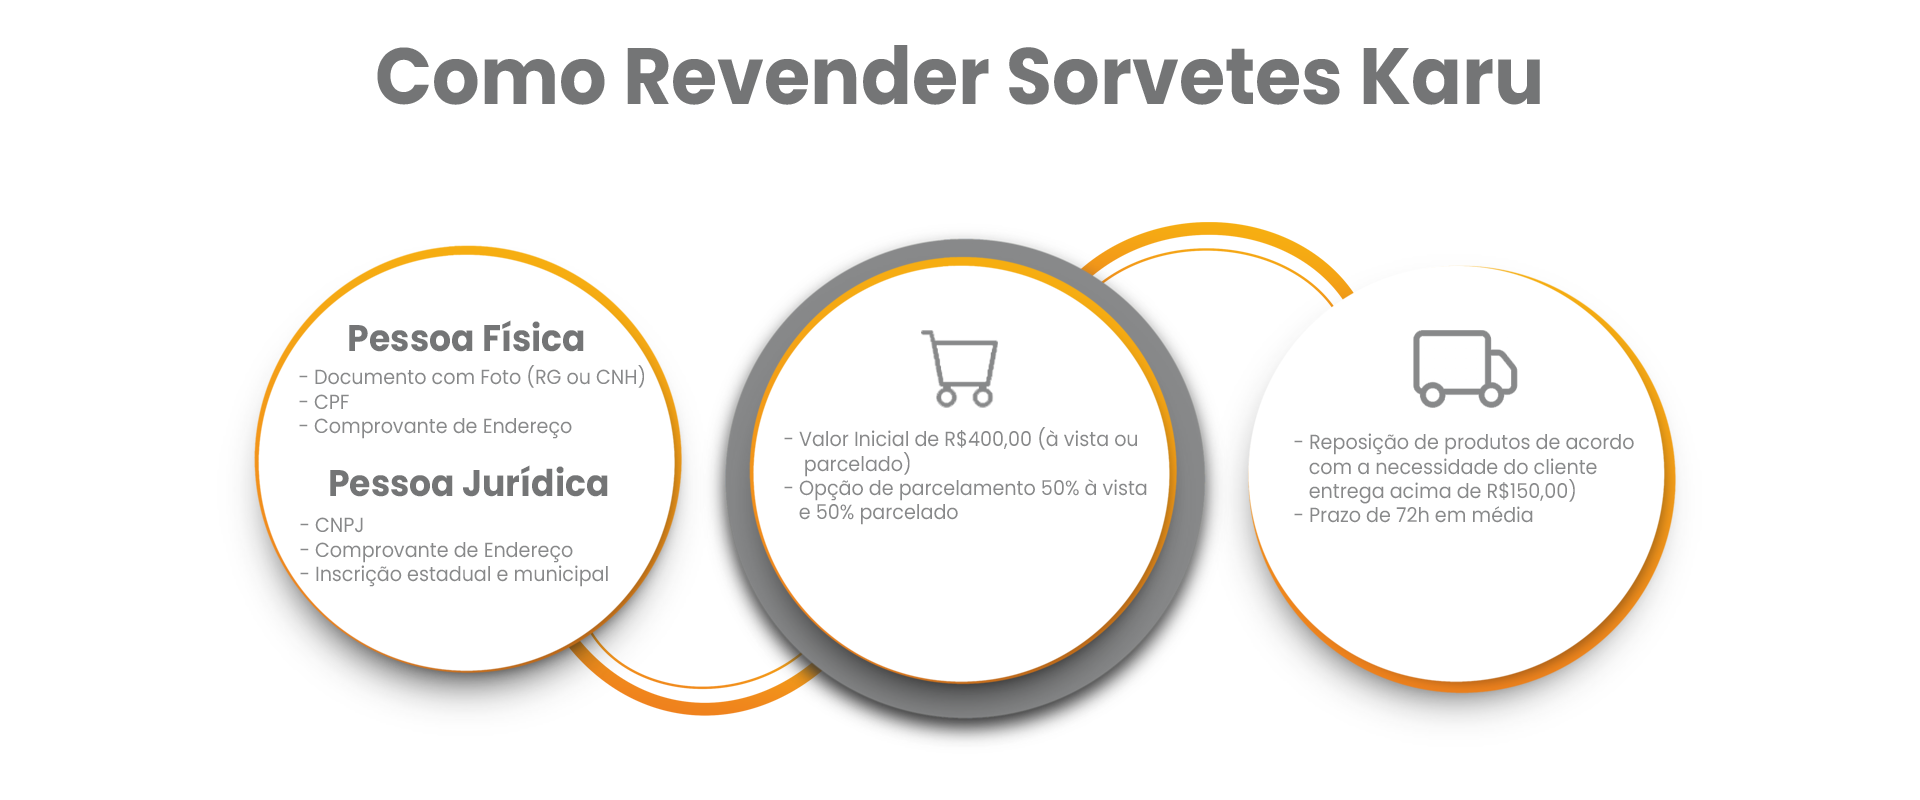
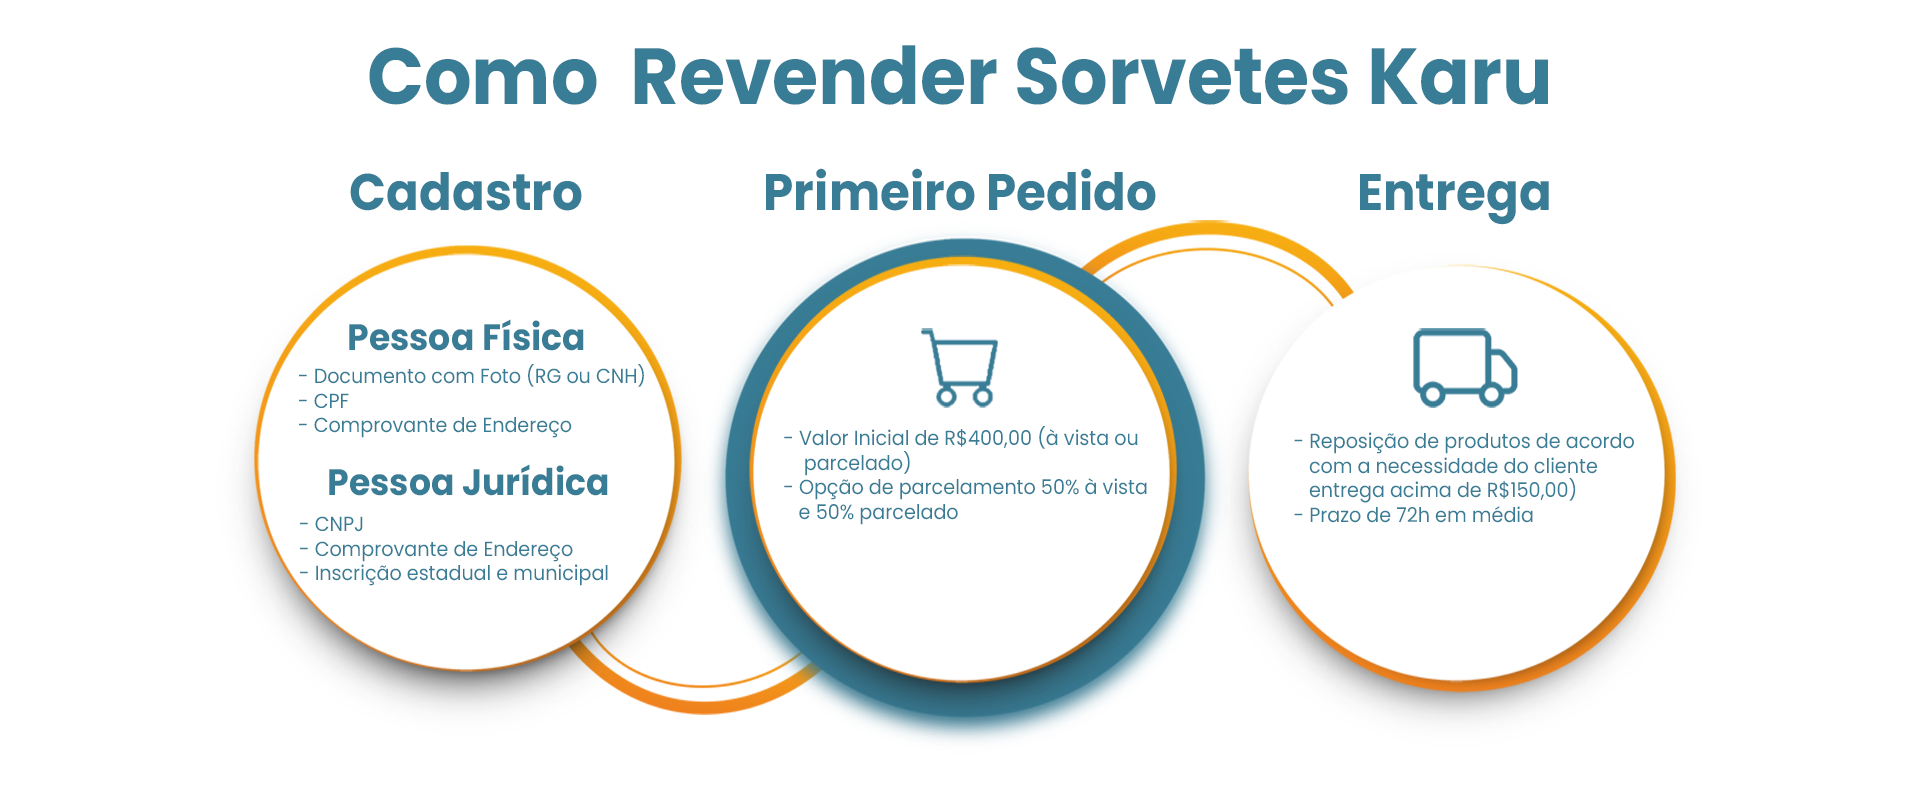
troca cor revenda

diff --git a/slider/slider.html b/slider/slider.html
@@ -190,9 +190,9 @@
           </div>
 
           <div id="slider-control2">
-            <a class="left carousel-control" href="#itemslider1" data-slide="prev"><img src="left-arrow.png" alt="Left"
+            <a class="left carousel-control" href="#itemslider2" data-slide="prev"><img src="left-arrow.png" alt="Left"
                 class="img-responsive"></a>
-            <a class="right carousel-control" href="#itemslider1" data-slide="next"><img src="right-arrow.png"
+            <a class="right carousel-control" href="#itemslider2" data-slide="next"><img src="right-arrow.png"
                 alt="Right" class="img-responsive"></a>
           </div>
         </div>
